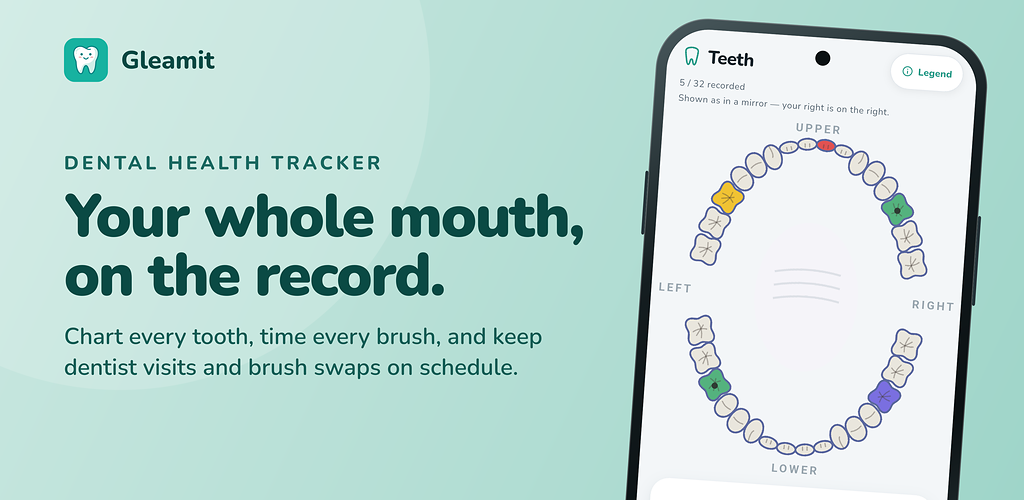
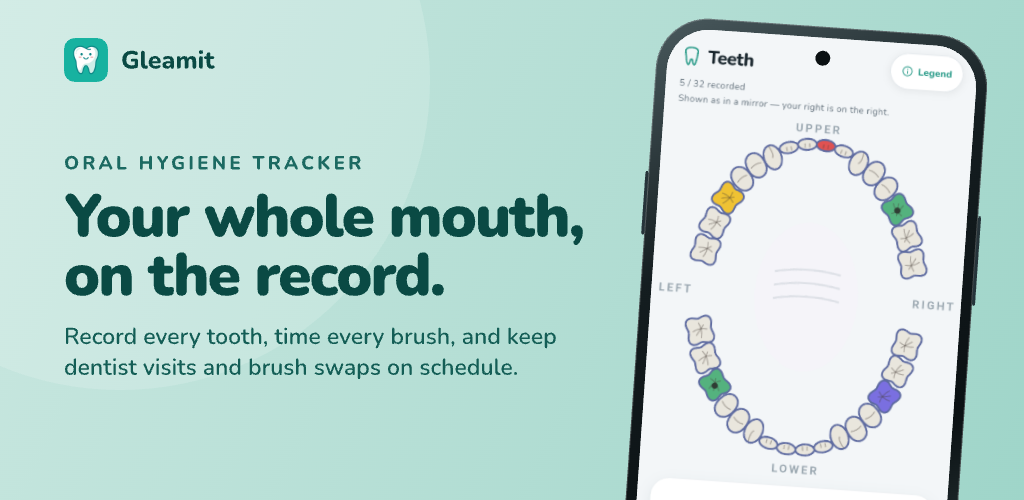
fix: drop health framing from site copy
Part of the health-claims audit (Uaitt/gleamit#191): the site is
marketing for the app, so it counts toward the app's intended purpose.

- Pricing: "conditions" becomes "your own labels", and Pro streak
  insights are "hourly counts", not "patterns".
- Brushes card states the reminder interval instead of a nudge.
- Badge alt texts follow the new "Oral Hygiene Tracker" name.
- og.png is the regenerated Play feature graphic.

diff --git a/tests/pricing.spec.ts b/tests/pricing.spec.ts
@@ -5,13 +5,13 @@ import { cardBackground, tealTextColor } from './theme';
 /** The free-vs-Pro rules of the app's paywall, as CONTEXT.md states them. */
 const comparison = [
   ['Brushing timer, streaks, reminders, floss', 'Included', 'Included'],
-  ['Full 32-tooth map with conditions and notes', 'Included', 'Included'],
+  ['Full 32-tooth map with your own labels and notes', 'Included', 'Included'],
   ['Dentist contact, appointments, Learn', 'Included', 'Included'],
   ['Cloud backup, full export and import', 'Included', 'Included'],
   ['Tooth history', 'Latest entry', 'Full timeline'],
   ['Brushes you track at once', '1', 'Unlimited'],
   ['Brushing history and trends', '7 days / 4 weeks', 'Unlimited'],
-  ['Streak insights', 'This month', 'All-time plus patterns'],
+  ['Streak insights', 'This month', 'All-time plus hourly counts'],
   ['Smile photos', '1', 'Unlimited plus compare'],
   ['Document vault', '1 file', 'Unlimited'],
   ['Dentist PDF report', 'Sample preview', 'Included'],

diff --git a/tests/peerpush.spec.ts b/tests/peerpush.spec.ts
@@ -2,7 +2,7 @@ import { test, expect } from '@playwright/test';
 import { horizontalOverflow, showcase } from './matrix';
 
 const badge = (page: import('@playwright/test').Page) =>
-  showcase(page).getByRole('link', { name: 'Gleamit: Dental Health Tracker on PeerPush' });
+  showcase(page).getByRole('link', { name: 'Gleamit: Oral Hygiene Tracker on PeerPush' });
 
 test('the home page shows the PeerPush badge above the footer', async ({ page }) => {
   await page.goto('/');
